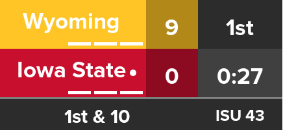
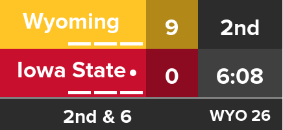
update scorebug endpoints

diff --git a/src/main/kotlin/com/fcfb/arceus/service/fcfb/game/ScorebugService.kt b/src/main/kotlin/com/fcfb/arceus/service/fcfb/game/ScorebugService.kt
@@ -32,24 +32,28 @@ class ScorebugService(
     @Value("\${images.path}")
     private val imagePath: String? = null
 
-    fun getScorebugByGameId(gameId: Int): ResponseEntity<ByteArray>? {
-        val game = gameRepository.findByGameId(gameId) ?: return null
-        val image = generateScorebug(game)
+    fun getScorebugByGameId(gameId: Int): ResponseEntity<ByteArray> {
+        val game = gameRepository.findByGameId(gameId) ?: return ResponseEntity(HttpStatus.NOT_FOUND)
 
-        // Convert BufferedImage to byte array
-        val outputStream = ByteArrayOutputStream()
-        ImageIO.write(image, "png", outputStream)
-        val imageBytes = outputStream.toByteArray()
+        val scorebug = File("$imagePath/scorebugs/${game.gameId}_scorebug.png").readBytes()
 
         // Set the response headers
         val headers =
             HttpHeaders().apply {
                 contentType = MediaType.IMAGE_PNG
-                contentLength = imageBytes.size.toLong()
+                contentLength = scorebug.size.toLong()
             }
 
         // Return the image in the response
-        return ResponseEntity(imageBytes, headers, HttpStatus.OK)
+        return ResponseEntity(scorebug, headers, HttpStatus.OK)
+    }
+
+    fun generateScorebug(gameId: Int): ResponseEntity<String> {
+        val game = gameRepository.findByGameId(gameId) ?: return ResponseEntity("Game not found", HttpStatus.NOT_FOUND)
+        generateScorebug(game) ?: return ResponseEntity("Failed to generate scorebug", HttpStatus.INTERNAL_SERVER_ERROR)
+
+        // Return the image in the response
+        return ResponseEntity("Scorebug generated for $gameId", HttpStatus.OK)
     }
 
     fun generateScorebug(game: Game): BufferedImage? {

diff --git a/src/main/kotlin/com/fcfb/arceus/controllers/ScorebugController.kt b/src/main/kotlin/com/fcfb/arceus/controllers/ScorebugController.kt
@@ -3,6 +3,7 @@ package com.fcfb.arceus.controllers
 import com.fcfb.arceus.service.fcfb.game.ScorebugService
 import org.springframework.web.bind.annotation.CrossOrigin
 import org.springframework.web.bind.annotation.GetMapping
+import org.springframework.web.bind.annotation.PostMapping
 import org.springframework.web.bind.annotation.RequestMapping
 import org.springframework.web.bind.annotation.RequestParam
 import org.springframework.web.bind.annotation.RestController
@@ -17,4 +18,9 @@ class ScorebugController(
     fun getScorebugByGameId(
         @RequestParam("gameId") gameId: Int,
     ) = scorebugService.getScorebugByGameId(gameId)
+
+    @PostMapping("/generate")
+    fun generateScorebug(
+        @RequestParam("gameId") gameId: Int,
+    ) = scorebugService.generateScorebug(gameId)
 }
